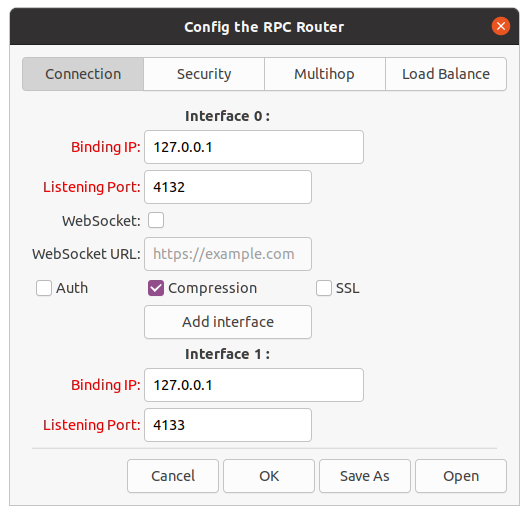
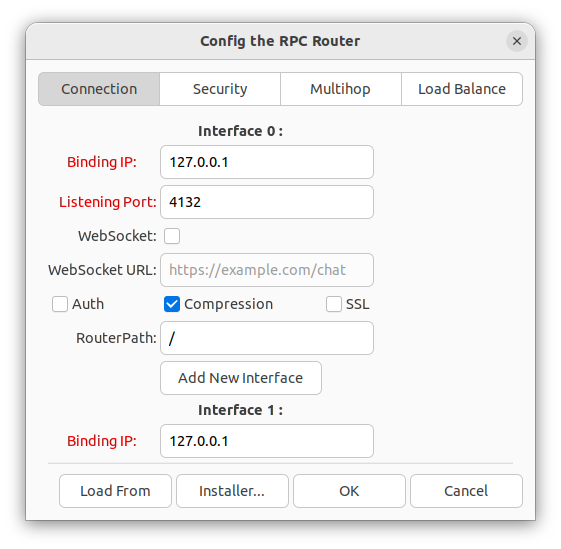
. rpcfg.png, tools/README_cn.md: added description to 'Router Path' in connection page.

Changed region(s): [[0.0, 0.0, 0.9981, 0.9942], [0.5747, 0.6214, 0.6049, 0.6524], [0.5444, 0.6524, 0.5747, 0.6835]]

diff --git a/tools/README_cn.md b/tools/README_cn.md
@@ -17,6 +17,7 @@
   * WebSocket： RPC连接将使用WebSocket协议传输，`WebSocket URL`编辑框里指定进行websocket通信的网络连接。注意这里使用的是https, 而不是wss。处于安全的考虑，启用websocket将强制开启SSL选项。
   * 压缩(Compression)：对传输数据进行压缩。
   * 身份认证(Auth)：对连接用户进行身份认证。具体使用Kerberos或者OAuth2在安全页进行配置。和SSL类似。所有的连接，如果启用了身份认证，那么会用同样的认证设置。
+  * 路由路径(Router Path): 客户端选项，指定服务器所在的节点。客户端建立连接的服务器是根节点'/'。隔着根服务器的第二级服务器类似'/fooNode', fooNode是第二级服务器的名称，它的设置信息必须在`级联页`能够找得到。如果还有第三级，如'/fooNode/dev1'，可以访问的前提是，应该保证在'fooNode'的级联页里有节点'dev1'的设置。
   * 添加网络接口(Add Interface): 如果还需要绑定不同的IP地址，可以使用这个按钮添加。
   * 删除网络接口(Remove Interface): 按此按钮将删除按钮上方的设置。
   * 连接页的布局:   

diff --git a/rpc/router/README.md b/rpc/router/README.md
@@ -1,3 +1,4 @@
+[中文](./README_cn.md)
 #### Name
 rpcrouter - the daemon program for `rpc-frmwrk`
 
